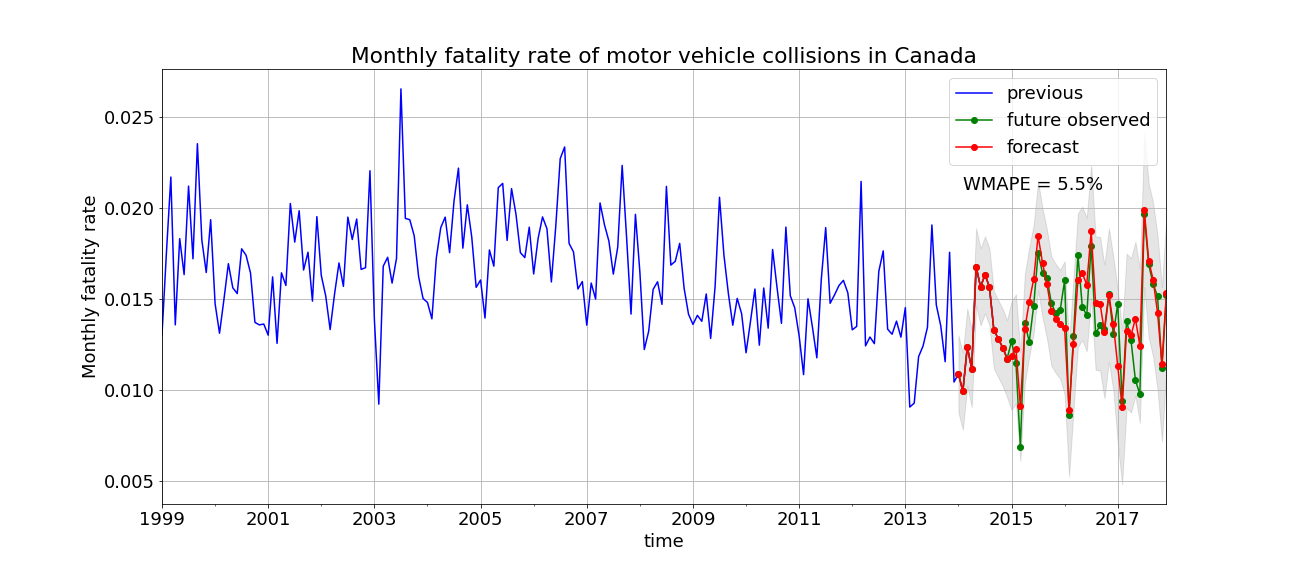
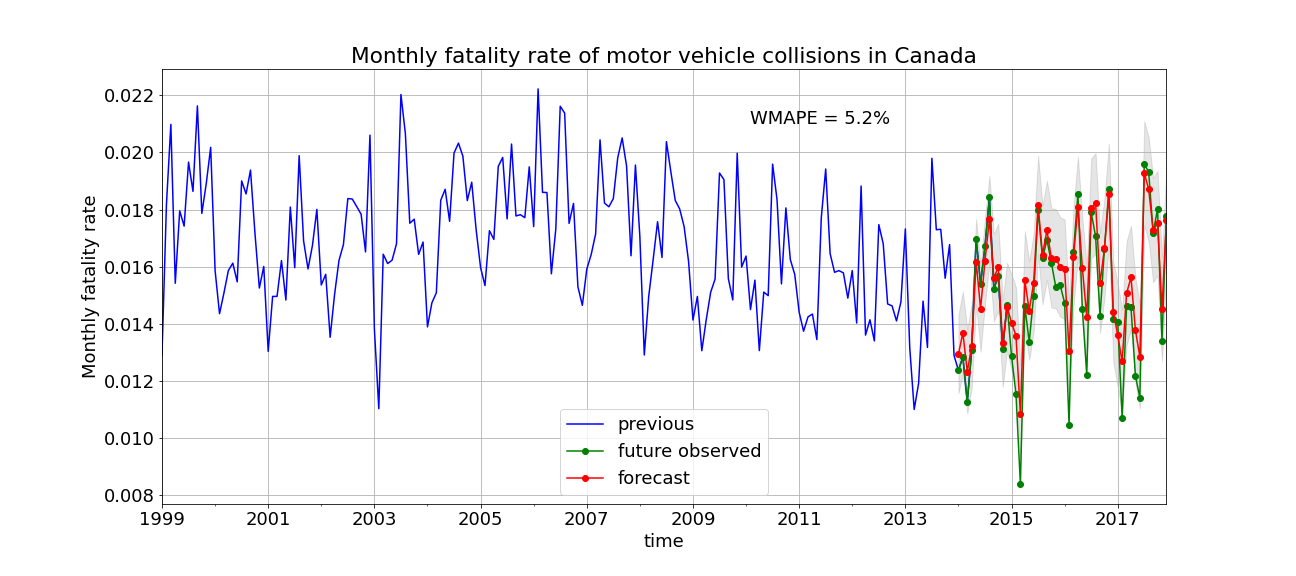
updated readme

diff --git a/README.md b/README.md
@@ -8,7 +8,7 @@
 
 ## Forecast
 
-![fig](fatality-forecast/images/gpr.png)
+![fig](fatality-forecast/images/fig_fcst.png)
 
 ## Model Diagnostics and Ljung-Box Test
 ![fig](fatality-forecast/images/figdi.png)
